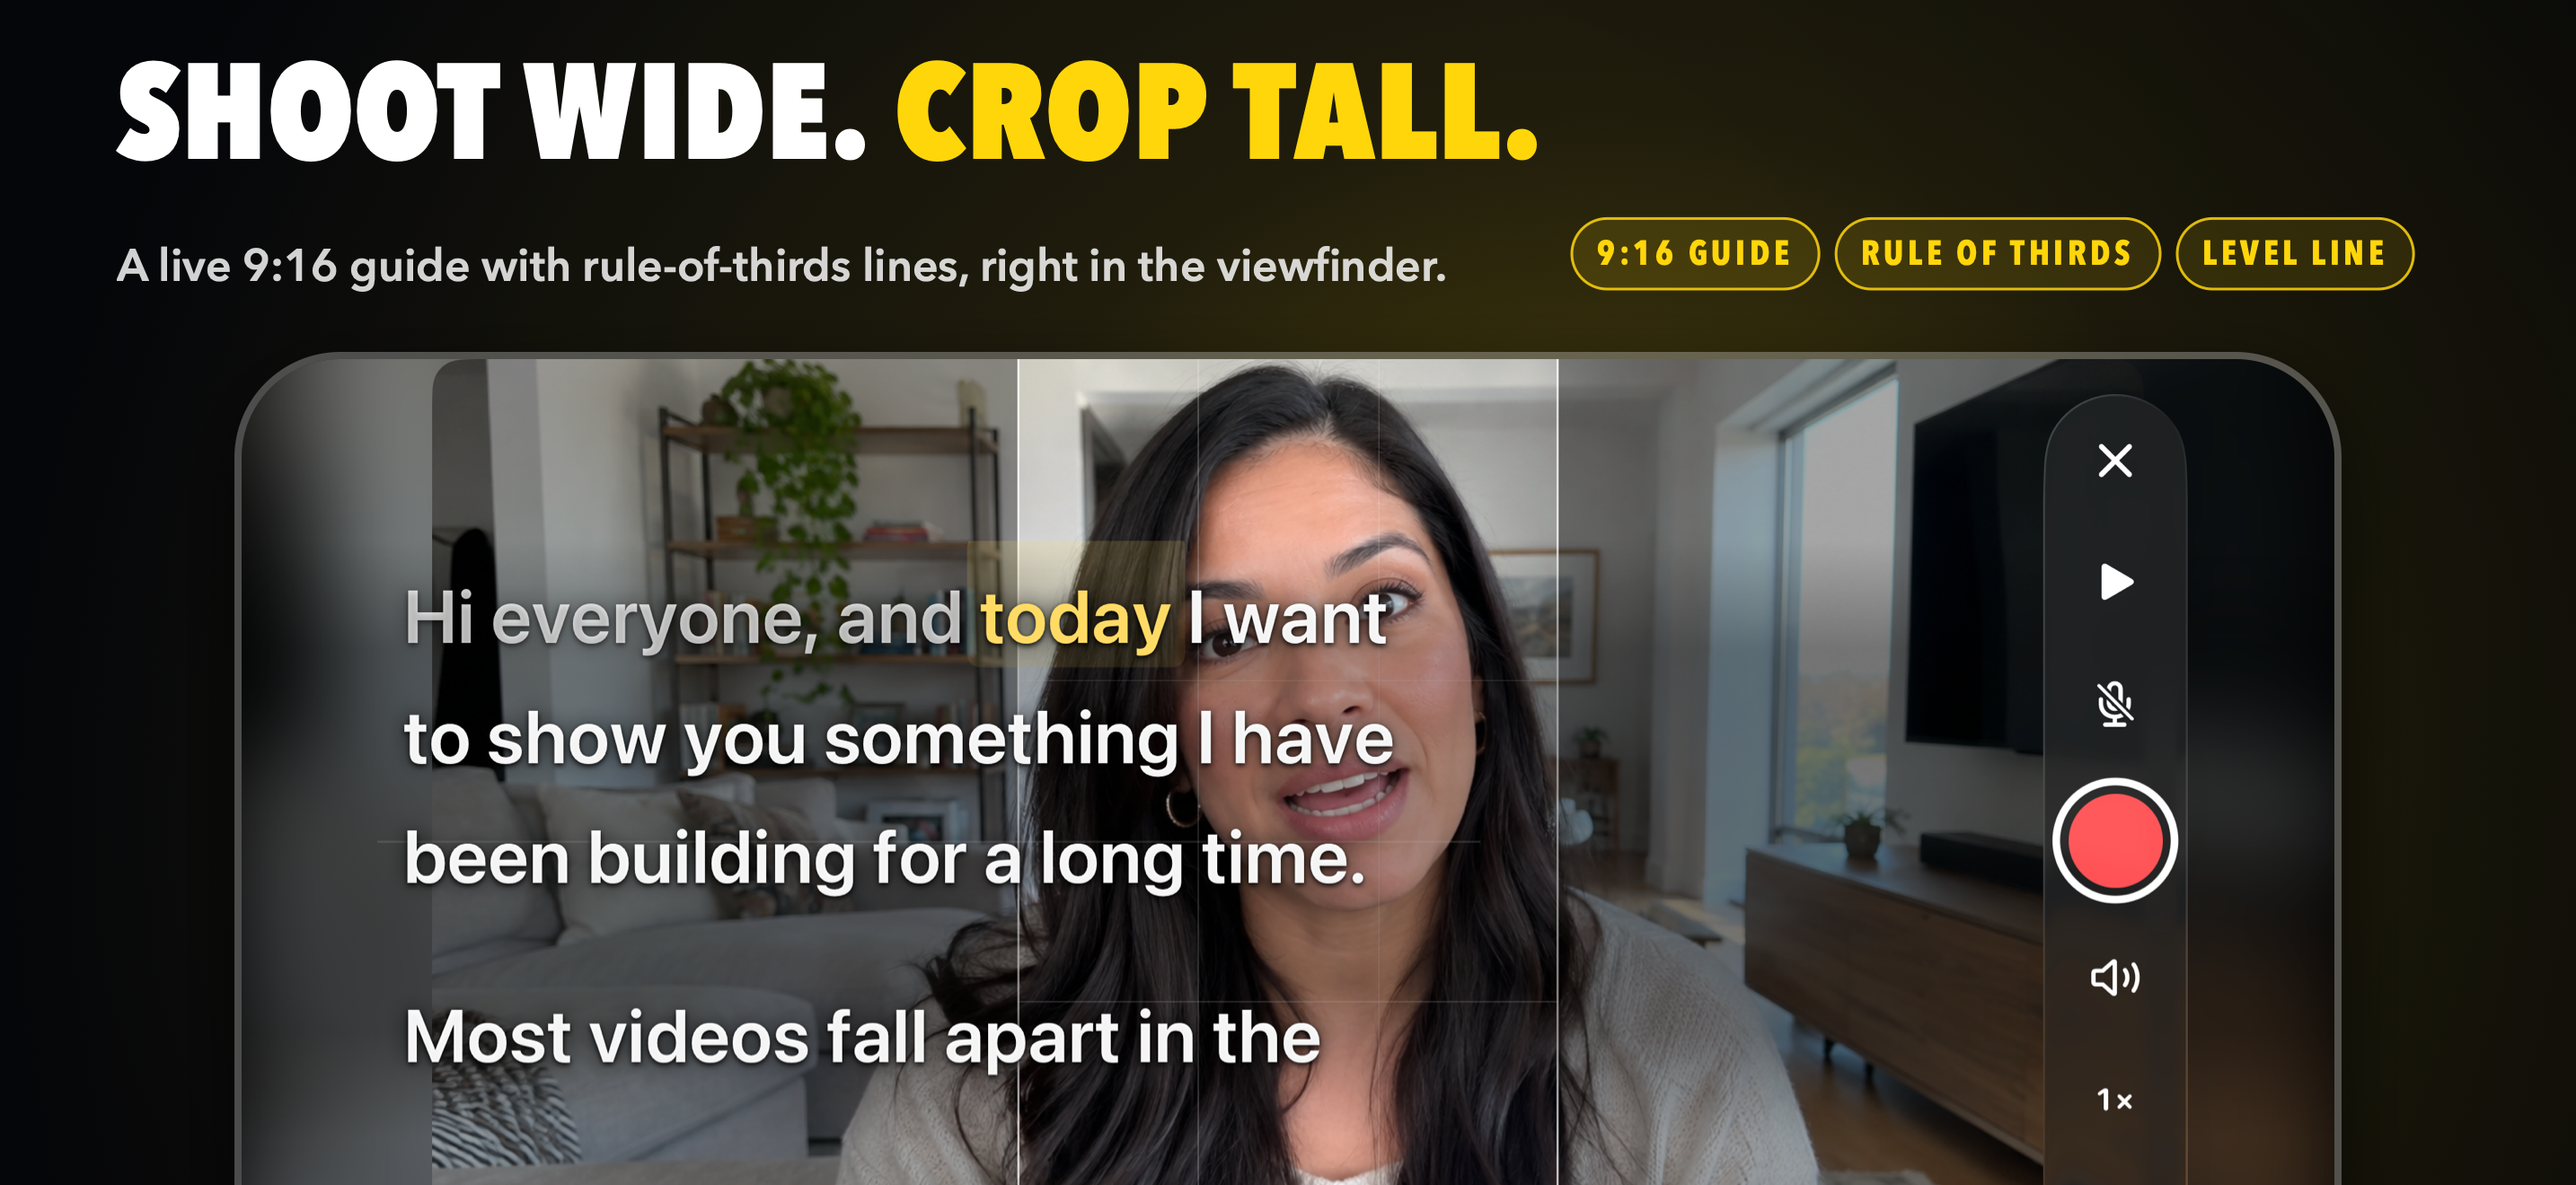
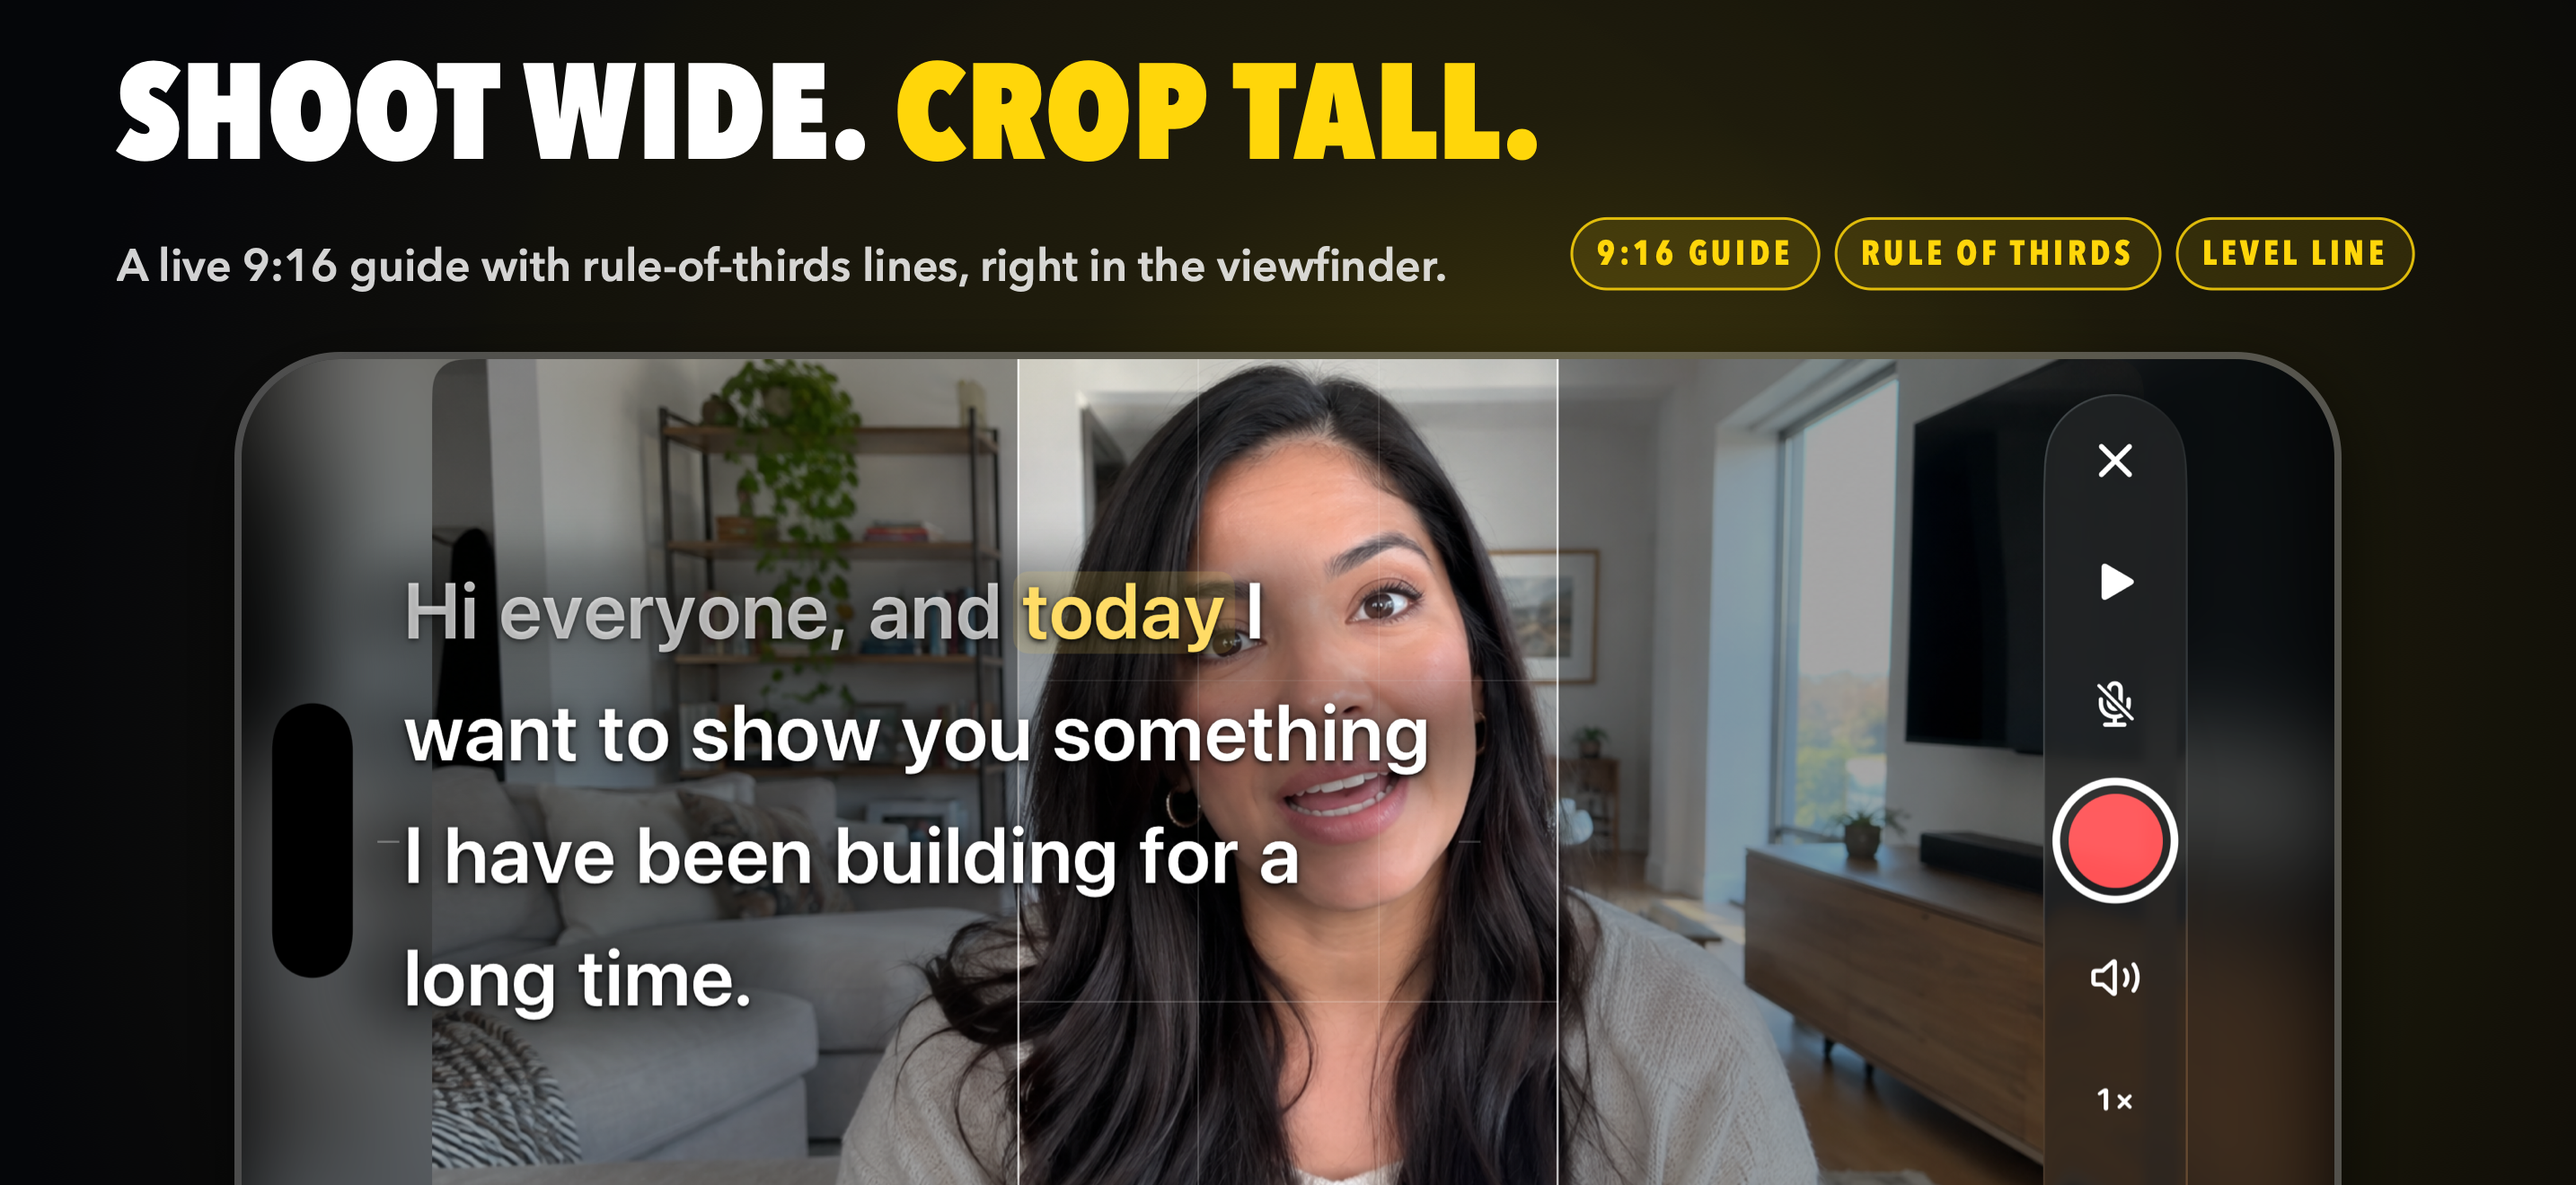
App Store screenshots with 1.0.3 typography; Debug library launch flag
Re-rendered iPhone and Mac sets with the new prompter rendering, new
distance shots (iPhone 9, Mac 7). Debug/dev-only SIGHTLINE_SHOW_LIBRARY
opens the Mac library window at launch for marketing captures.

Changed region(s): [[0.0931, 0.4348, 0.8068, 0.9318]]

diff --git a/docs/release/screenshots/tools/frame-mac.swift b/docs/release/screenshots/tools/frame-mac.swift
@@ -145,7 +145,7 @@ func render(_ it: Item, base: String, out dir: String) {
         let contentTop: CGFloat = 690
         switch it.id {
         case "notch":
-            let panel = load("panel_hover")
+            let panel = load("panel_desk")
             let sw: CGFloat = 2220
             macScreenTop(ctx, x: (W - sw) / 2, top: contentTop, w: sw, h: H - contentTop + 120) { c, under in
                 let pw: CGFloat = 1500, ph = pw * 520 / 1280
@@ -155,10 +155,10 @@ func render(_ it: Item, base: String, out dir: String) {
             }
         case "calls":
             let photo = load("scene1")
-            let pw: CGFloat = 2300, ph = pw * 864 / 1536
+            let pw: CGFloat = 2080, ph = pw * 864 / 1536
             card(ctx, photo, CGRect(x: (W - pw) / 2, y: H - 640 - ph, width: pw, height: ph), radius: 60)
         case "hidden":
-            let panel = load("panel_clean")
+            let panel = load("panel_desk")
             let cw: CGFloat = 1260, gap: CGFloat = 100
             let x0 = (W - 2 * cw - gap) / 2
             for (i, title) in ["YOU SEE", "THEY SEE"].enumerated() {
@@ -180,7 +180,7 @@ func render(_ it: Item, base: String, out dir: String) {
                 }
             }
         case "languages":
-            let panel = load("panel_hover")
+            let panel = load("panel_desk")
             let pw: CGFloat = 1500, ph = pw * 520 / 1280
             card(ctx, panel, CGRect(x: 130, y: H - contentTop - 40 - ph, width: pw, height: ph), radius: 40)
             let lines = ["ENGLISH · ESPAÑOL", "DEUTSCH · FRANÇAIS", "ITALIANO · PORTUGUÊS", "日本語 · 한국어", "普通话 · 粵語", "TÜRKÇE · +20 MORE"]
@@ -200,8 +200,8 @@ func render(_ it: Item, base: String, out dir: String) {
             pills(ctx, ["WORD", "PDF", "MARKDOWN", "RTF", "HTML", "ODT"], x: cx, top: 1050, size: 40, maxWidth: 700)
             _ = drawTop(para("Add [[delivery cues]] you see but never read.", size: 46, align: .left), x: cx, top: 1320, width: 660)
         case "tune":
-            let set = load("settings_b")
-            let sw: CGFloat = 1180, sh = sw * 1416 / 1080
+            let set = load("settings_pace")
+            let sw: CGFloat = 1180, sh = sw * set.size.height / set.size.width
             card(ctx, set, CGRect(x: W - 130 - sw, y: H - 700 - sh, width: sw, height: sh), radius: 32)
             let lines = [("148 WPM", true), ("2:14 LEFT", false), ("DUALSENSE", false), ("[[PAUSE]]", true)]
             var top: CGFloat = contentTop + 20
@@ -210,6 +210,16 @@ func render(_ it: Item, base: String, out dir: String) {
                 top += 215
             }
             _ = drawTop(para("Available with Sightline Pro", size: 44, align: .left, alpha: 0.55), x: 130, top: top + 40, width: 1500)
+        case "distance":
+            let pw: CGFloat = 1120, ph = pw * 520 / 1280
+            for (i, (raw, title)) in [("panel_close", "CLOSE · 45 CM"), ("panel_back", "BACK · 80 CM")].enumerated() {
+                let top = contentTop - 50 + CGFloat(i) * (56 + ph + 60)
+                _ = drawTop(headline(title, size: 56, align: .left, color: i == 0 ? yellow : .white), x: 240, top: top, width: 900)
+                card(ctx, load(raw), CGRect(x: 240, y: H - top - 56 - ph, width: pw, height: ph), radius: 30)
+            }
+            let set = load("settings_b")
+            let sw: CGFloat = 1000, sh = sw * set.size.height / set.size.width
+            card(ctx, set, CGRect(x: W - 240 - sw, y: H - contentTop + 50 - sh, width: sw, height: sh), radius: 32)
         default: break
         }
     }
@@ -223,6 +233,9 @@ let items = [
     Item(id: "hidden", head: "INVISIBLE TO\n*EVERYONE ELSE.*", sub: "Hide the prompter from screen sharing and recording. Only you see your script.", chips: ["HIDDEN FROM SHARING", "HIDDEN FROM RECORDING"], out: "3-hidden.png"),
     Item(id: "languages", head: "SPEAK ANY\n*LANGUAGE.*", sub: "Voice following in 31 languages, many of them on-device.", chips: ["VOICE FOLLOWING", "31 LANGUAGES"], out: "4-languages.png"),
     Item(id: "sync", head: "WRITE ON MAC.\n*RECORD ON IPHONE.*", sub: "Scripts sync through iCloud. Import Word, PDF, Markdown and more.", chips: ["ICLOUD", "MAC + IPHONE"], out: "5-sync.png"),
+    Item(id: "distance", head: "TEXT SIZED TO\n*YOUR DISTANCE.*", sub: "Pick how far you sit. The words grow as you lean back and tighten as you move in.", chips: ["4 DISTANCE PRESETS", "AUTO TEXT SIZE"], out: "7-distance.png"),
     Item(id: "tune", head: "DIAL IN\n*YOUR PACE.*", sub: "Live words per minute and time left. Drive it with a DualSense controller.", chips: ["WORDS PER MINUTE", "DUALSENSE"], out: "6-pace.png"),
 ]
-for it in items { render(it, base: a[1], out: a[2]) }
+// optional 3rd argument: comma-separated ids to render (e.g. notch,hidden), for when only some raw captures changed
+let only = a.count > 3 ? Set(a[3].split(separator: ",").map(String.init)) : nil
+for it in items where only?.contains(it.id) ?? true { render(it, base: a[1], out: a[2]) }

diff --git a/docs/release/screenshots/tools/frame-iphone.swift b/docs/release/screenshots/tools/frame-iphone.swift
@@ -83,7 +83,7 @@ func device(_ ctx: CGContext, _ shot: NSImage, _ rect: CGRect, radius: CGFloat) 
     ctx.setStrokeColor(NSColor(white: 1, alpha: 0.28).cgColor); ctx.setLineWidth(8); ctx.strokePath()
 }
 
-enum Kind { case phone(String), landscape(String), languages, specs, sync }
+enum Kind { case phone(String), landscape(String), languages, specs, sync, distance }
 struct Item { let kind: Kind; var headSize: CGFloat = 215; let head: String; let sub: String; let chips: [String]; let out: String }
 
 func render(_ it: Item, base: String, out dir: String) {
@@ -137,6 +137,15 @@ func render(_ it: Item, base: String, out dir: String) {
                 let phone = NSImage(contentsOfFile: "\(base)/raw/picker.png")!
                 let pw: CGFloat = 620, ph = pw * 2868 / 1320
                 device(ctx, phone, CGRect(x: W - pw - 50, y: -ph * 0.16, width: pw, height: ph), radius: 80)
+            case .distance:
+                let pw: CGFloat = 600, ph = pw * 2868 / 1320, gap: CGFloat = 40
+                let x0 = (W - 2 * pw - gap) / 2, y: CGFloat = 190
+                for (i, (raw, tag)) in [("distfar", "75 CM AWAY"), ("distnear", "30 CM CLOSE")].enumerated() {
+                    let x = x0 + CGFloat(i) * (pw + gap)
+                    let shot = NSImage(contentsOfFile: "\(base)/raw/\(raw).png")!
+                    device(ctx, shot, CGRect(x: x, y: y, width: pw, height: ph), radius: 80)
+                    headline(tag, size: 84, align: .center, color: i == 0 ? yellow : .white).draw(in: CGRect(x: x, y: y + ph + 36, width: pw, height: 110))
+                }
             default: break
             }
         }
@@ -153,6 +162,7 @@ let items: [Item] = [
     Item(kind: .languages, head: "SPEAK ANY\n*LANGUAGE.*", sub: "31 languages. Many recognize speech on your device, no connection needed.", chips: ["ON-DEVICE", "31 LANGUAGES"], out: "5-languages.png"),
     Item(kind: .sync, headSize: 128, head: "WRITE ON MAC.\n*RECORD ON IPHONE.*", sub: "Scripts sync through iCloud. Import Word, PDF, Markdown, RTF and more.", chips: ["ICLOUD", "MAC + IPHONE"], out: "6-sync.png"),
     Item(kind: .phone("camera"), head: "TUNE IT TO\n*YOUR EYES.*", sub: "Size, spacing, speed, microphone. Add [[delivery cues]] you see but never read.", chips: ["USB MIC", "WORDS PER MINUTE", "CUES"], out: "7-tune.png"),
+    Item(kind: .distance, headSize: 150, head: "TEXT SIZED TO\n*YOUR DISTANCE.*", sub: "Lean back and the words grow. Move in and they tighten. Easy to read at any distance.", chips: ["AUTO TEXT SIZE", "FRONT CAMERA"], out: "9-distance.png"),
     Item(kind: .specs, head: "STUDIO\n*QUALITY.*", sub: "Record straight to Photos in the quality your channel deserves.", chips: ["UP TO 4K", "PRO CODECS"], out: "8-studio.png"),
 ]
 for it in items { render(it, base: a[1], out: a[2]) }

diff --git a/macOS/App/AppDelegate.swift b/macOS/App/AppDelegate.swift
@@ -41,6 +41,10 @@ final class AppDelegate: NSObject, NSApplicationDelegate, ControllerInputDelegat
         observeSettings()
         loadActiveScript()
         refreshTotalWords()
+        #if DEBUG || SIGHTLINE_DEV
+        // Site screenshots: open the library window at launch (with SIGHTLINE_LIBRARY_DIR pointing at sample scripts).
+        if ProcessInfo.processInfo.environment["SIGHTLINE_SHOW_LIBRARY"] != nil { libraryWindow.show() }
+        #endif
 
         // Manual scrolling moves the reading position; speech tracking continues from there.
         prompter.onManualScrollEnded = { [weak self] index in
